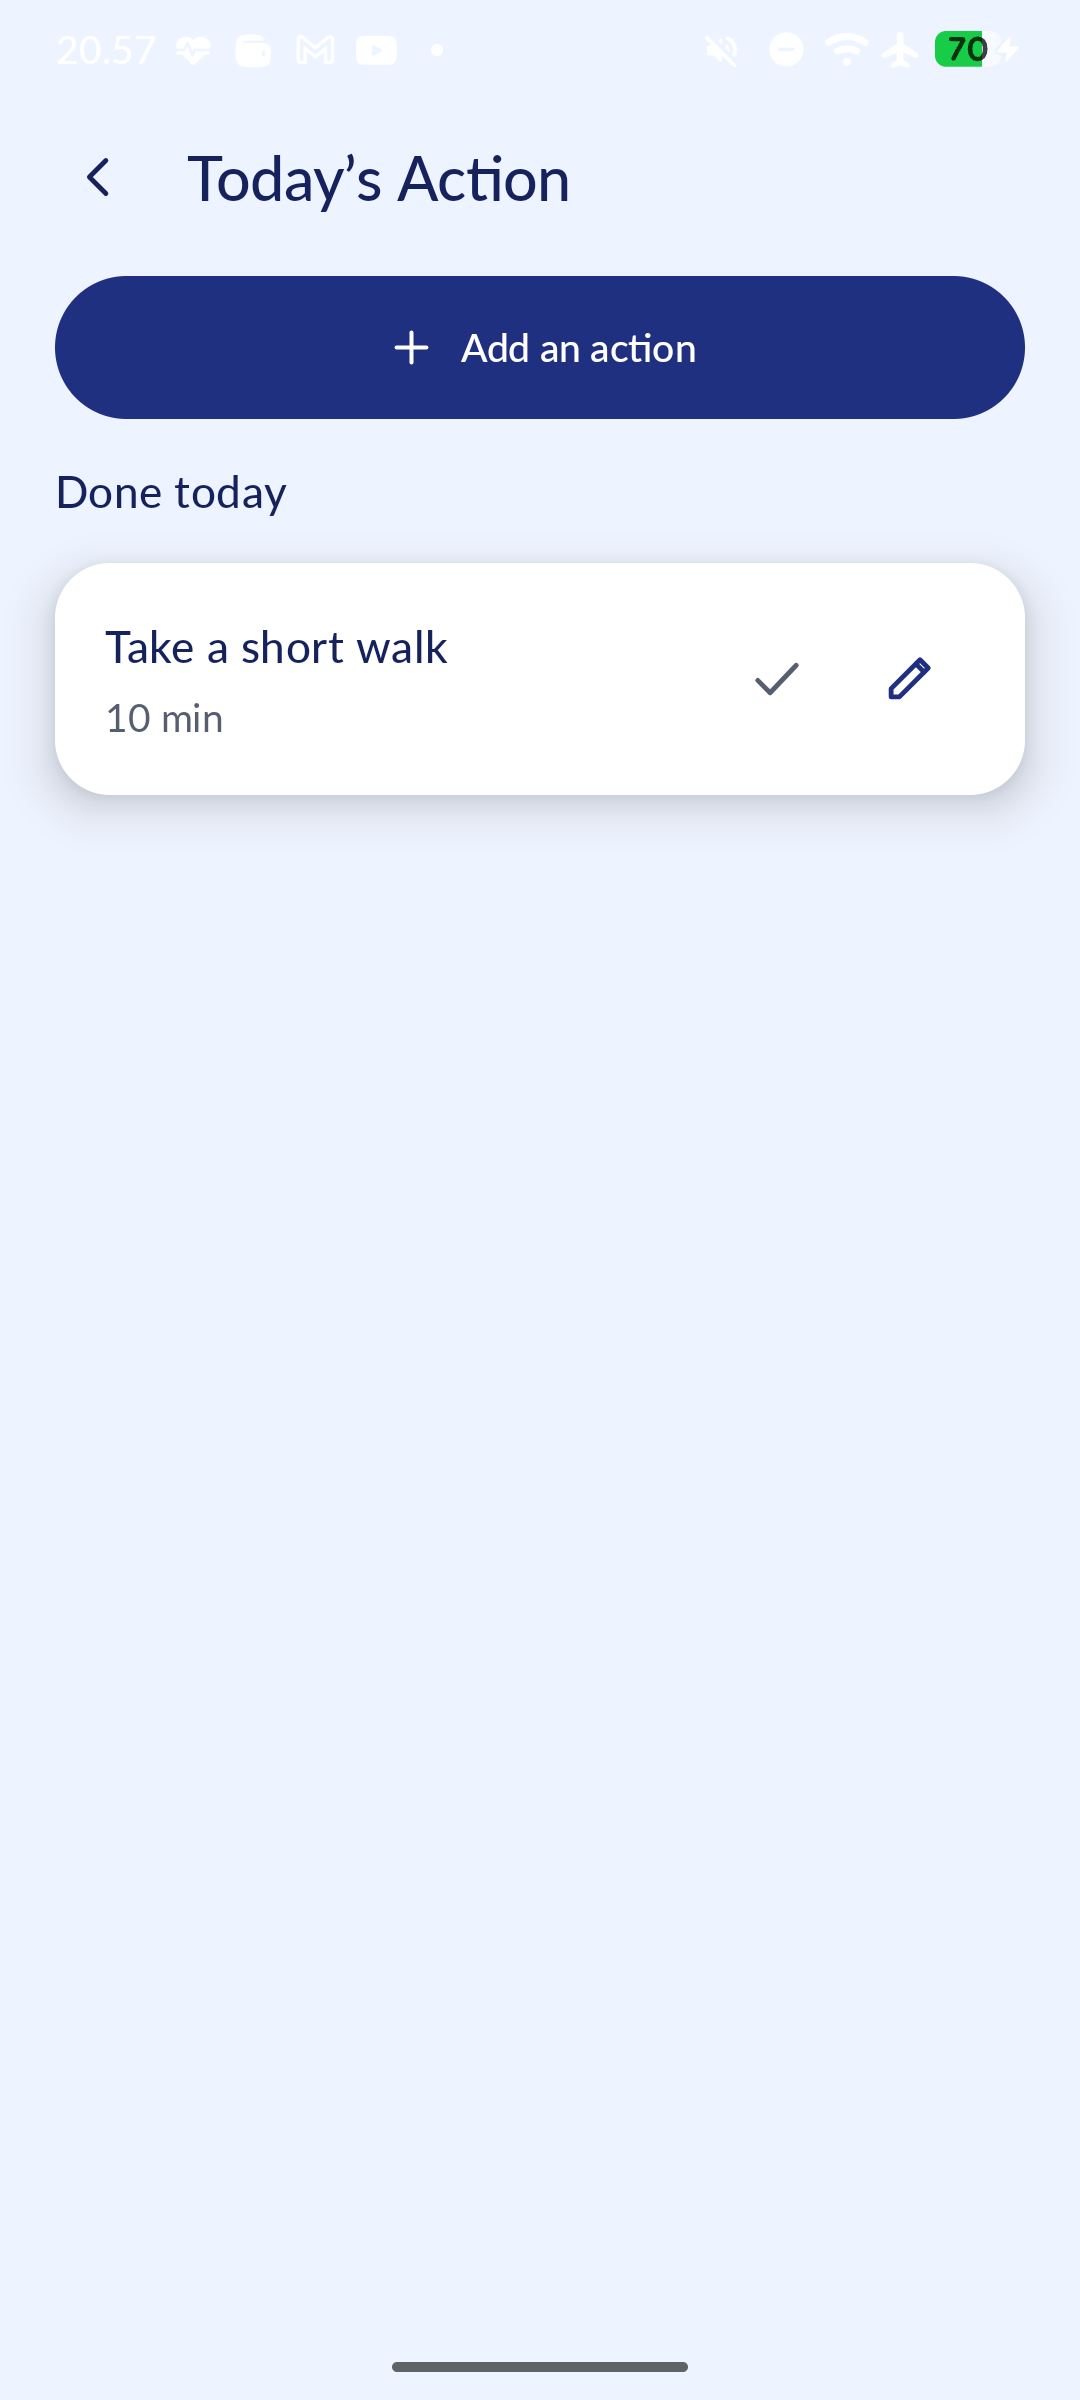
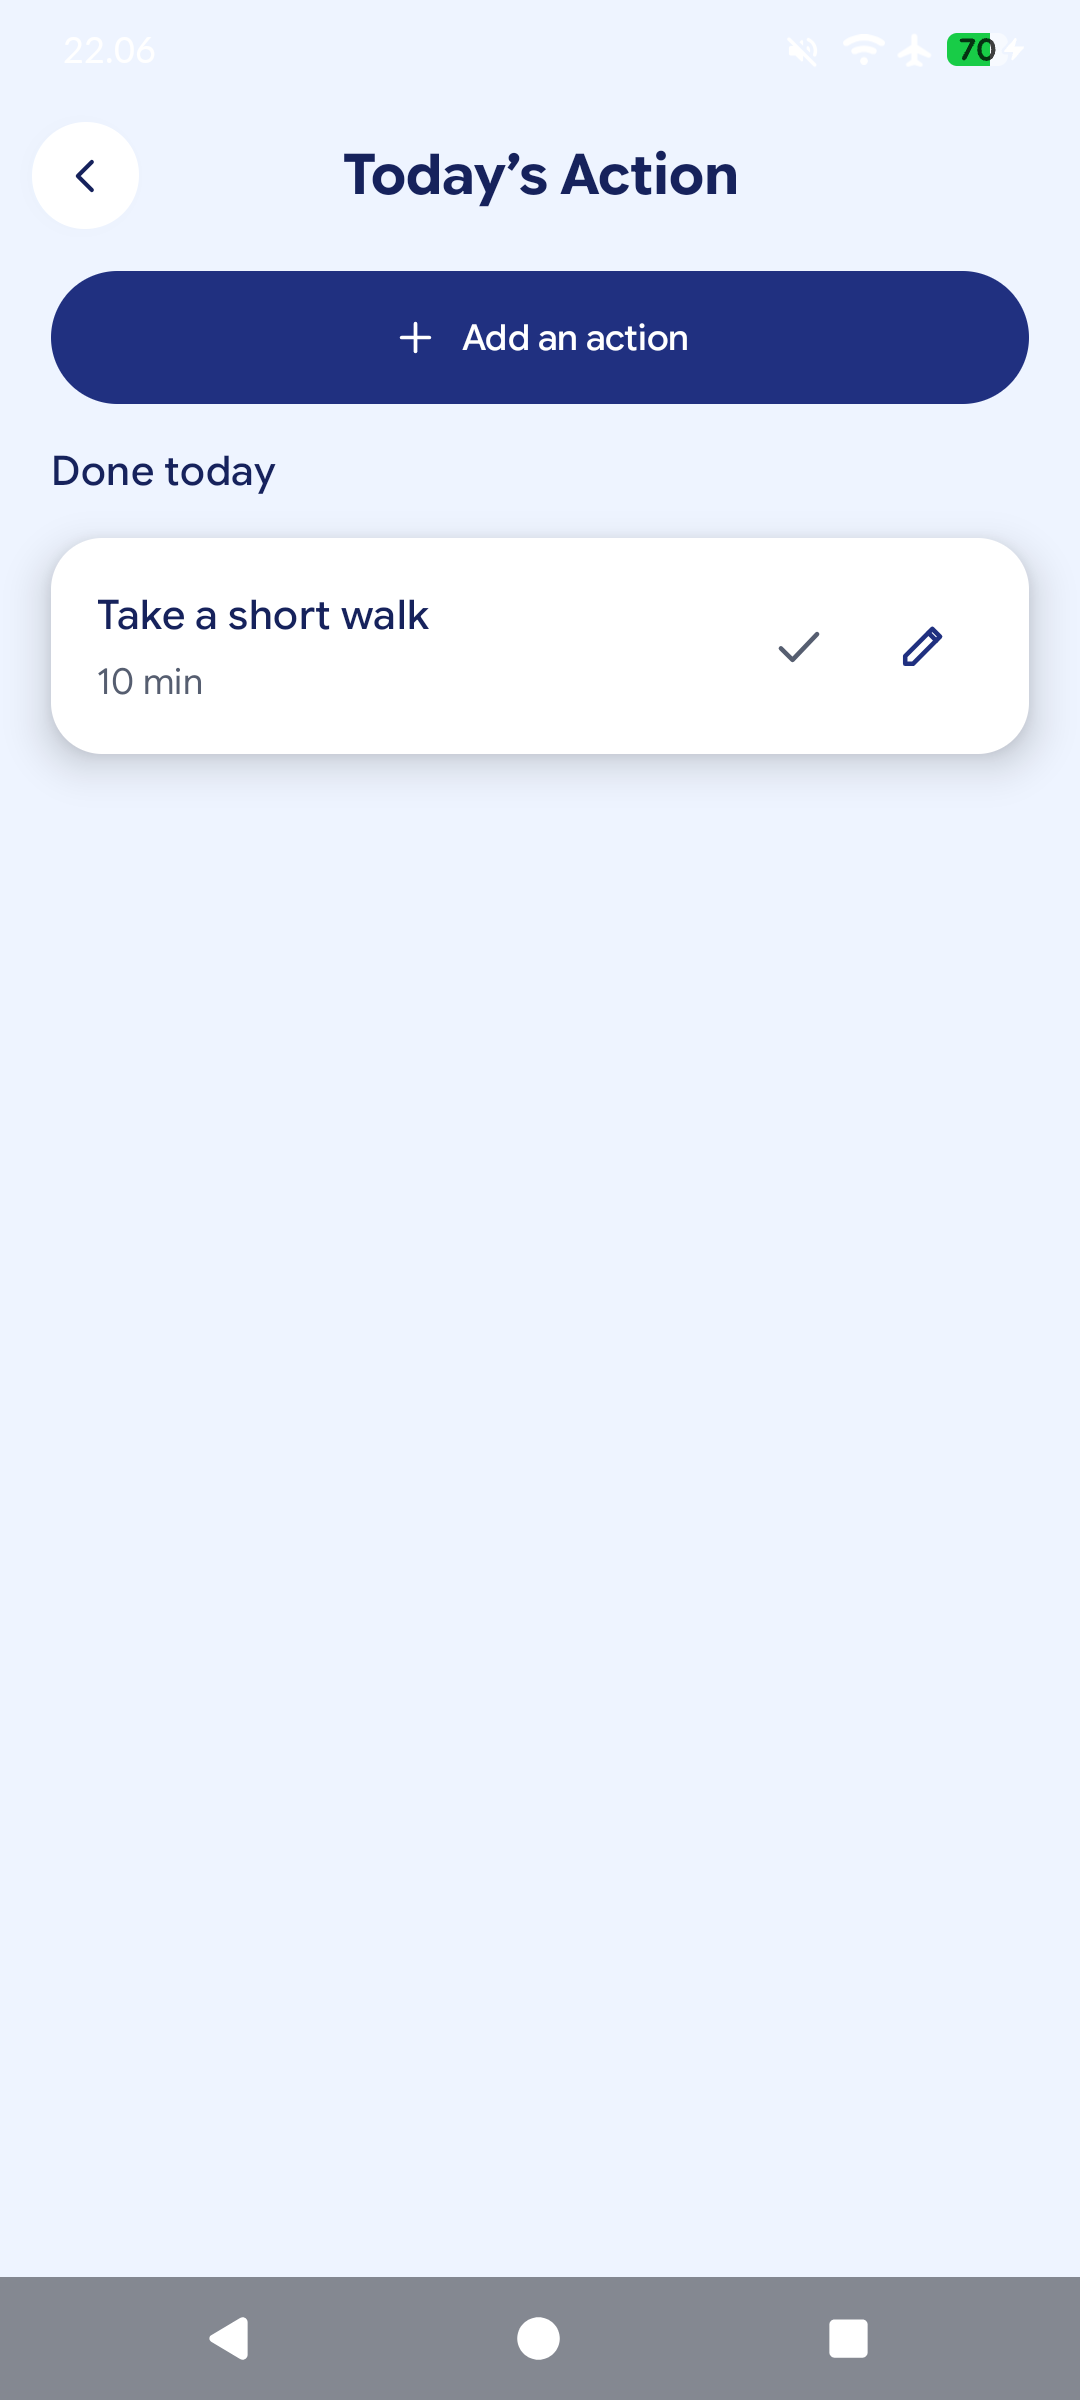
fix(action): use the shared top bar (#17)
* fix(action): use the shared top bar

* docs(testing): refresh the action evidence after the top bar change

diff --git a/app/src/main/java/com/mindurset/app/ui/action/ActionScreen.kt b/app/src/main/java/com/mindurset/app/ui/action/ActionScreen.kt
@@ -33,7 +33,6 @@ import androidx.compose.runtime.setValue
 import androidx.compose.ui.Alignment
 import androidx.compose.ui.Modifier
 import androidx.compose.ui.res.stringResource
-import androidx.compose.ui.text.font.FontWeight
 import androidx.compose.ui.unit.dp
 import androidx.lifecycle.compose.collectAsStateWithLifecycle
 import androidx.lifecycle.viewmodel.compose.viewModel
@@ -44,6 +43,7 @@ import com.mindurset.app.ui.common.AppCard
 import com.mindurset.app.ui.common.FloatingNavSpace
 import com.mindurset.app.ui.common.LoadingState
 import com.mindurset.app.ui.common.SectionTitle
+import com.mindurset.app.ui.profile.MindTopBar
 import com.mindurset.app.ui.theme.AppIcons
 import com.mindurset.app.ui.theme.MutedGray
 import com.mindurset.app.ui.theme.NavyDeep
@@ -65,25 +65,11 @@ fun ActionScreen(onBack: () -> Unit) {
         containerColor = MaterialTheme.colorScheme.background,
         contentWindowInsets = WindowInsets(0),
         topBar = {
-            Row(
-                modifier = Modifier.fillMaxWidth().padding(horizontal = 12.dp, vertical = 4.dp),
-                verticalAlignment = Alignment.CenterVertically,
-            ) {
-                IconButton(onClick = onBack, modifier = Modifier.size(48.dp)) {
-                    Icon(
-                        imageVector = AppIcons.ArrowBack,
-                        contentDescription = stringResource(R.string.action_back_cd),
-                        tint = NavyInk,
-                    )
-                }
-                Text(
-                    text = stringResource(R.string.action_title),
-                    modifier = Modifier.padding(start = 8.dp),
-                    style = MaterialTheme.typography.titleLarge,
-                    fontWeight = FontWeight.SemiBold,
-                    color = NavyInk,
-                )
-            }
+            MindTopBar(
+                title = stringResource(R.string.action_title),
+                onBack = onBack,
+                navDescription = stringResource(R.string.action_back_cd),
+            )
         },
     ) { innerPadding ->
         when (val current = state) {
